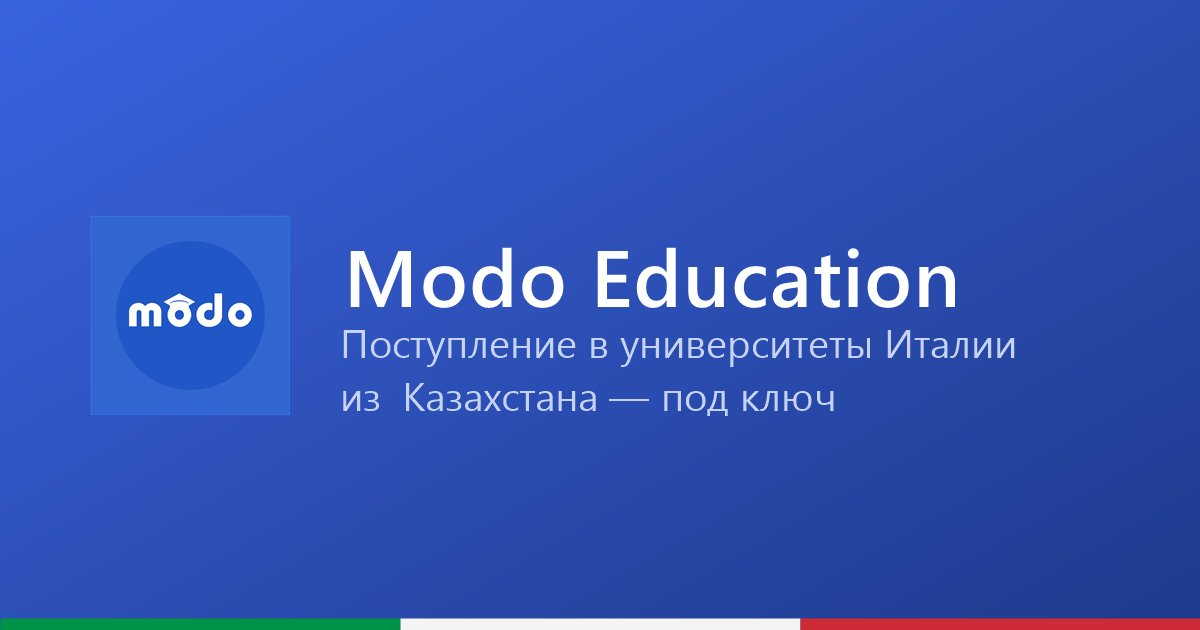
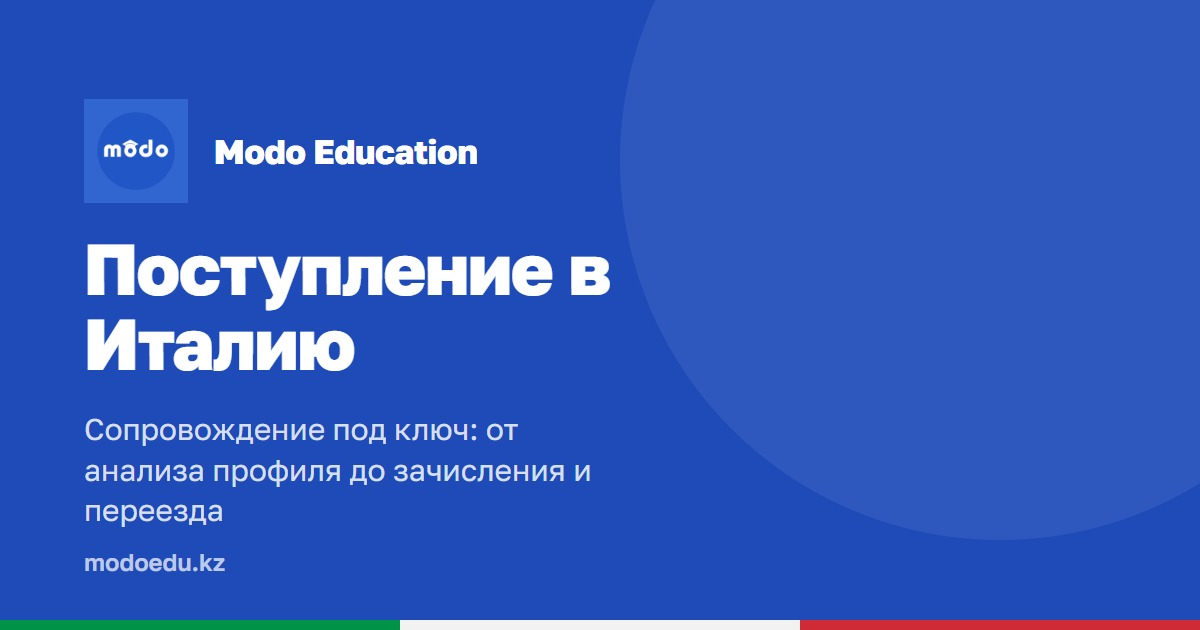
og: новое превью ссылки в фирменном стиле Modo

diff --git a/index.html b/index.html
@@ -314,14 +314,14 @@
 <meta property="og:site_name" content="Modo Education" />
 <meta property="og:title" content="Modo Education — поступление в университеты Италии" />
 <meta property="og:description" content="Сопровождение под ключ: от анализа профиля до зачисления и переезда. Bocconi, LUISS, Sapienza, Siena, Cassino." />
-<meta property="og:image" content="https://modoedu.kz/og-image.jpg" />
+<meta property="og:image" content="https://modoedu.kz/og-image.jpg?v=2" />
 <meta property="og:image:width" content="1200" />
 <meta property="og:image:height" content="630" />
 <meta property="og:locale" content="ru_RU" />
 <meta name="twitter:card" content="summary_large_image" />
 <meta name="twitter:title" content="Modo Education — поступление в университеты Италии" />
 <meta name="twitter:description" content="Сопровождение под ключ: от анализа профиля до зачисления и переезда." />
-<meta name="twitter:image" content="https://modoedu.kz/og-image.jpg" />
+<meta name="twitter:image" content="https://modoedu.kz/og-image.jpg?v=2" />
 <meta name="theme-color" content="#2f57d6" />
 <meta name="yandex-verification" content="a0ca4c05bf70ff94" />
 <link rel="icon" href="/favicon.ico" sizes="any" />
@@ -335,7 +335,7 @@
   "name": "Modo Education",
   "url": "https://modoedu.kz/",
   "logo": "https://modoedu.kz/icon-512.png",
-  "image": "https://modoedu.kz/og-image.jpg",
+  "image": "https://modoedu.kz/og-image.jpg?v=2",
   "description": "Сопровождение под ключ при поступлении в университеты Италии для студентов из Казахстана: разбор профиля, выбор вуза, документы, виза, стипендии.",
   "areaServed": "KZ",
   "knowsLanguage": ["ru"],
